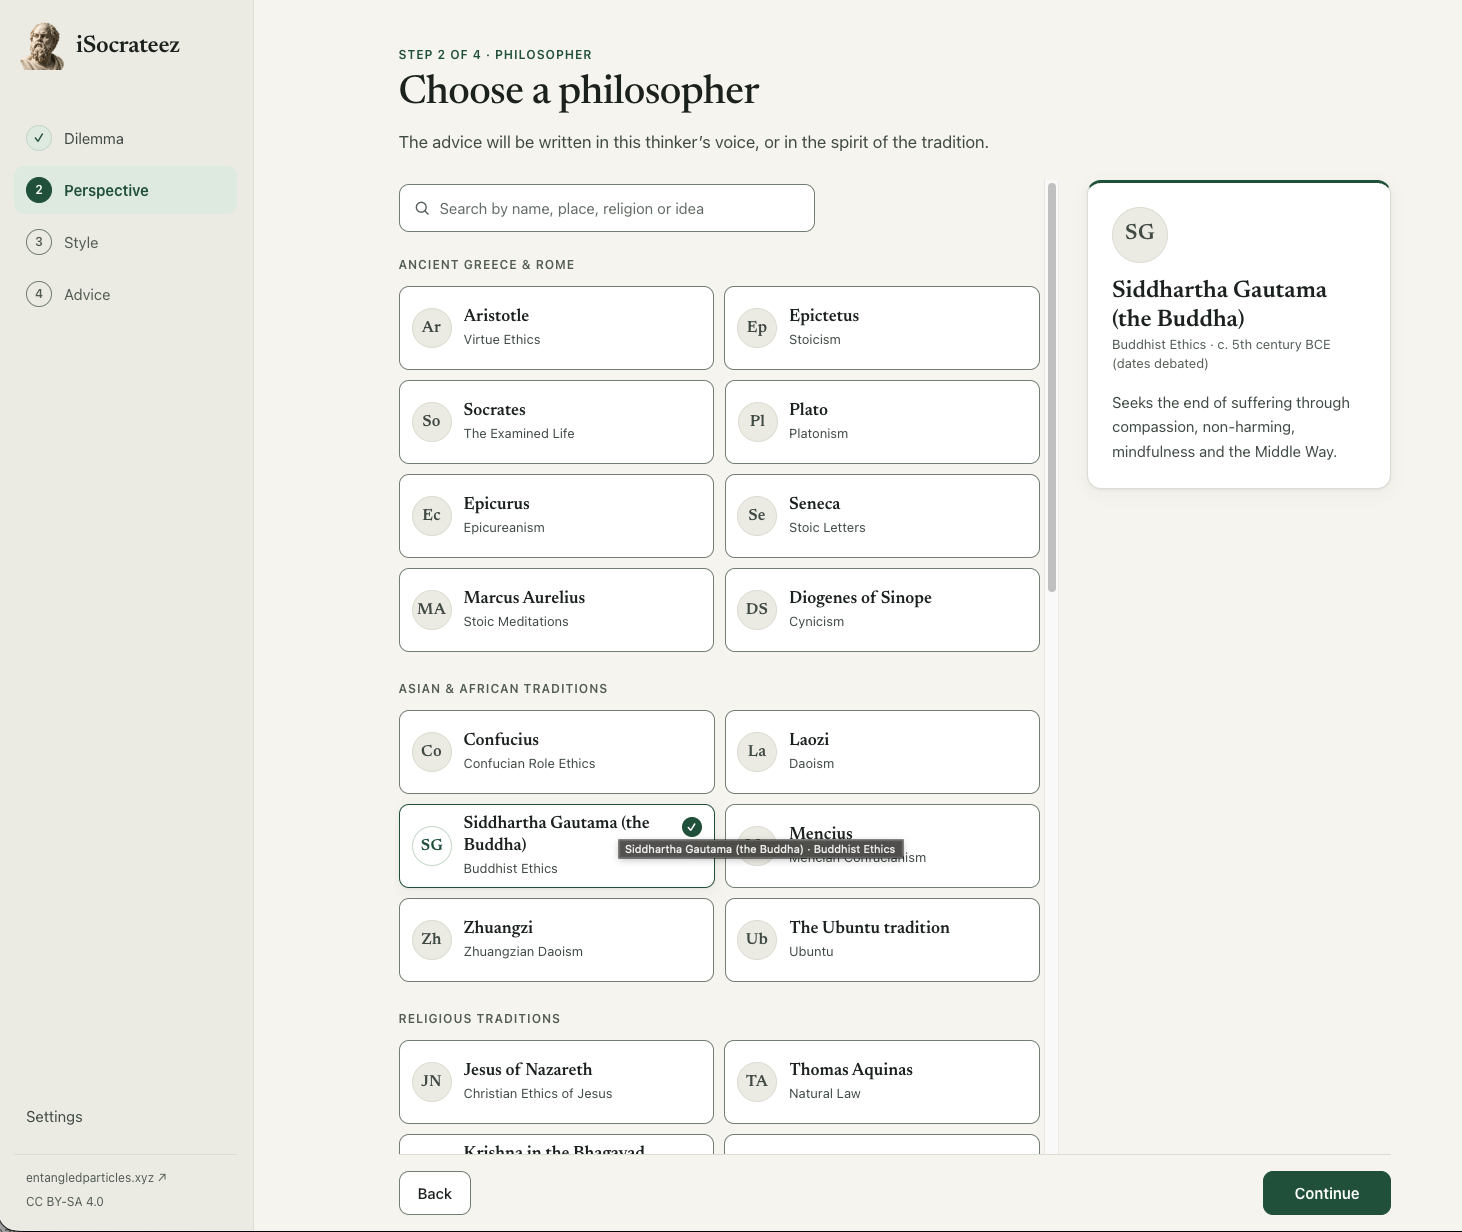
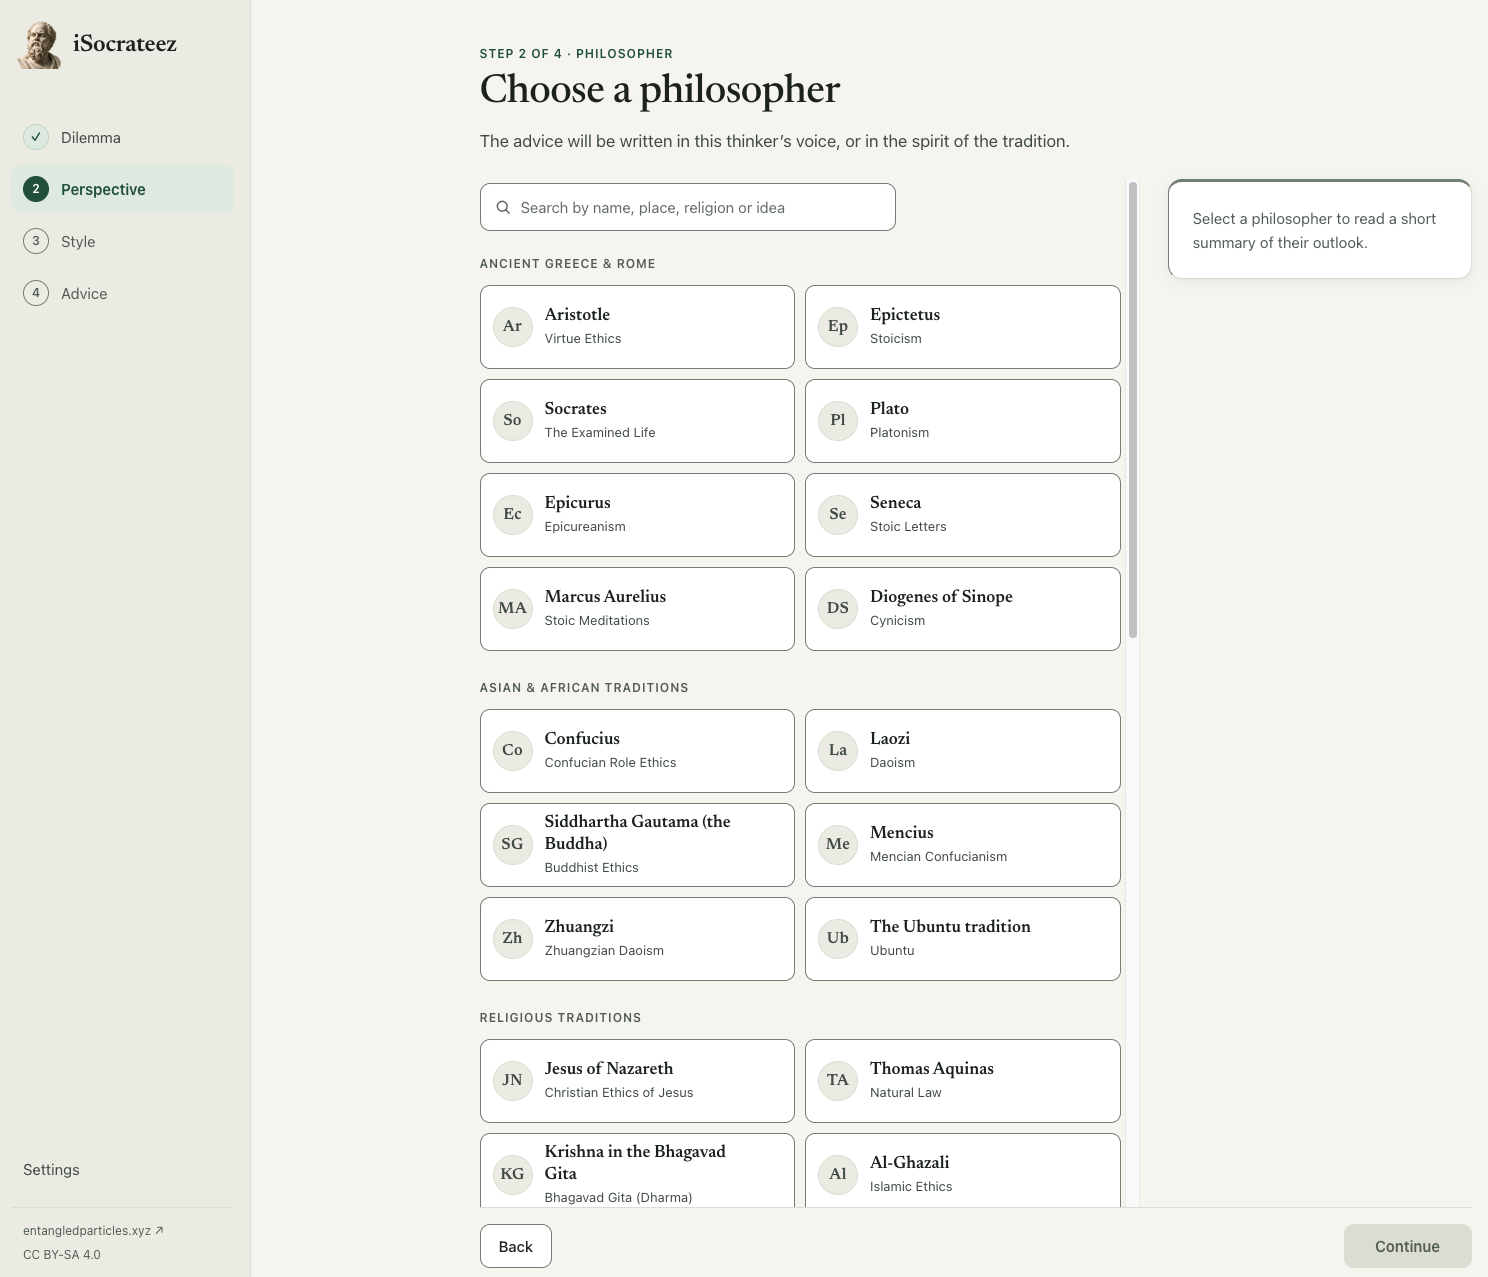
Replace philosopher screenshot and reduce screenshot display size

diff --git a/isocrateez.html b/isocrateez.html
@@ -66,7 +66,7 @@
         <img
           src="./assets/isocrateez/welcome.png"
           alt="The iSocrateez welcome screen with the tagline Good Reasons For Hard Choices and a shared passphrase field."
-          style="width: 100%; height: auto; border-radius: 12px; display: block"
+          style="width: 70%; height: auto; border-radius: 12px; margin: 0 auto; display: block"
         />
 
       </section>
@@ -79,7 +79,7 @@
         <img
           src="./assets/isocrateez/dilemma.png"
           alt="The dilemma selection screen, showing The Dangerous Discovery example."
-          style="width: 100%; height: auto; border-radius: 12px; display: block"
+          style="width: 70%; height: auto; border-radius: 12px; margin: 0 auto; display: block"
         />
 
       </section>
@@ -98,7 +98,7 @@
         <img
           src="./assets/isocrateez/coordinates.png"
           alt="Three sliders for outcomes versus principles, individual versus collective, and reason versus intuition."
-          style="width: 100%; height: auto; border-radius: 12px; display: block"
+          style="width: 70%; height: auto; border-radius: 12px; margin: 0 auto; display: block"
         />
 
       </section>
@@ -111,8 +111,8 @@
         <p>The response is an AI interpretation of that perspective, not the philosopher’s own words.</p>
         <img
           src="./assets/isocrateez/philosophers.png"
-          alt="The philosopher selection screen with Siddhartha Gautama (the Buddha) selected."
-          style="width: 100%; height: auto; border-radius: 12px; display: block"
+          alt="The philosopher selection screen, showing thinkers and ethical traditions with no philosopher selected."
+          style="width: 70%; height: auto; border-radius: 12px; margin: 0 auto; display: block"
         />
 
       </section>
@@ -139,7 +139,7 @@
         <img
           src="./assets/isocrateez/advice.png"
           alt="Advice in the spirit of Siddhartha Gautama (the Buddha), with tabs for reasoning, cautions, next steps, and export."
-          style="width: 100%; height: auto; border-radius: 12px; display: block"
+          style="width: 70%; height: auto; border-radius: 12px; margin: 0 auto; display: block"
         />
 
       </section>
